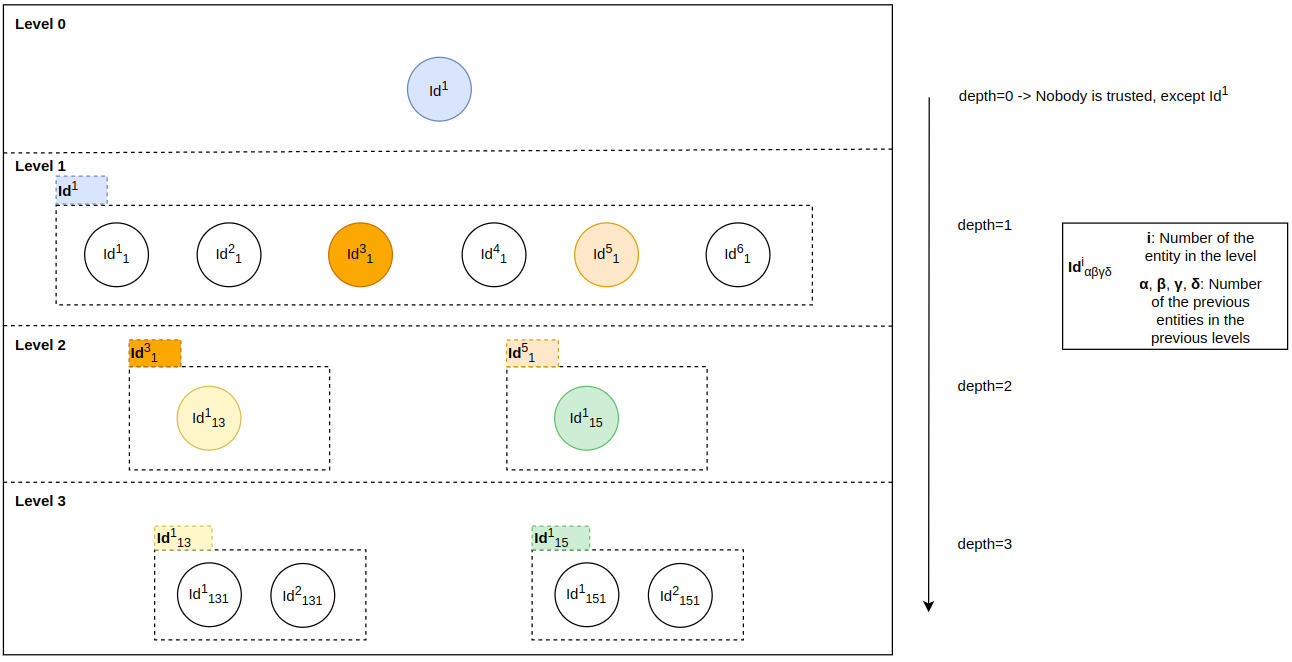
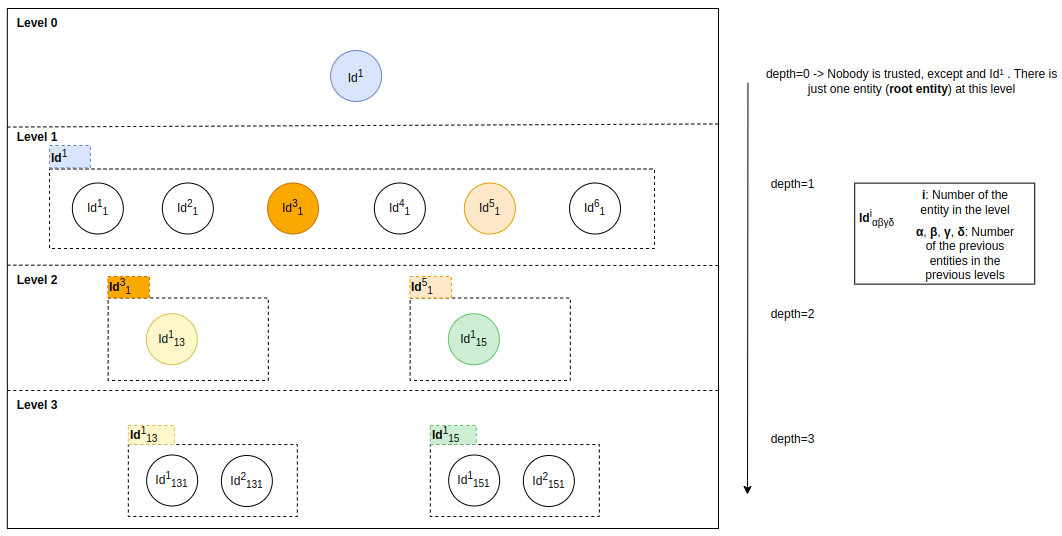
docs: update pictures

diff --git a/docs/functional/chainOfTrust.md b/docs/functional/chainOfTrust.md
@@ -12,7 +12,6 @@ Chain of Trust smart contract is part of a stack of contracts that comprise Chai
 
 - Chain of Trust can be used as a reference which means applications using this component can use additional custom lists to make further filtering over a particular entity.
 - The chain of trust concept starts with an entity that is set as the root entity. The root entity is set in the zero level of the chain of trust (The root level)
-- At the zero level of trust (root level) there can be more than one entity.
 - The root entity can add more members in a sort of trusted relationship by which the first one (parent entity) acknowledges the added entity (child entity) as a trusted member.
 - Resolving whether a child entity is trusted depends on the number of steps ("levels") taken to reach the root entity.
 - A child entity is trusted if "levels" is less or equal than the maximum depth" (an integer positive number defined on contract creation).
@@ -55,7 +54,7 @@ Chan of Trust smart contract is architecturally composed by the follings:
 
 In the following diagram depth=3 is exemplified
 
-<img src="../img/CoT.png" width="1100">
+<img src="../img/CoT-trusted-hierachy.png" width="1100">
 
 In the following diagram different groups are added at the same level, this shows how different entities endorse trust at different levels.
 
